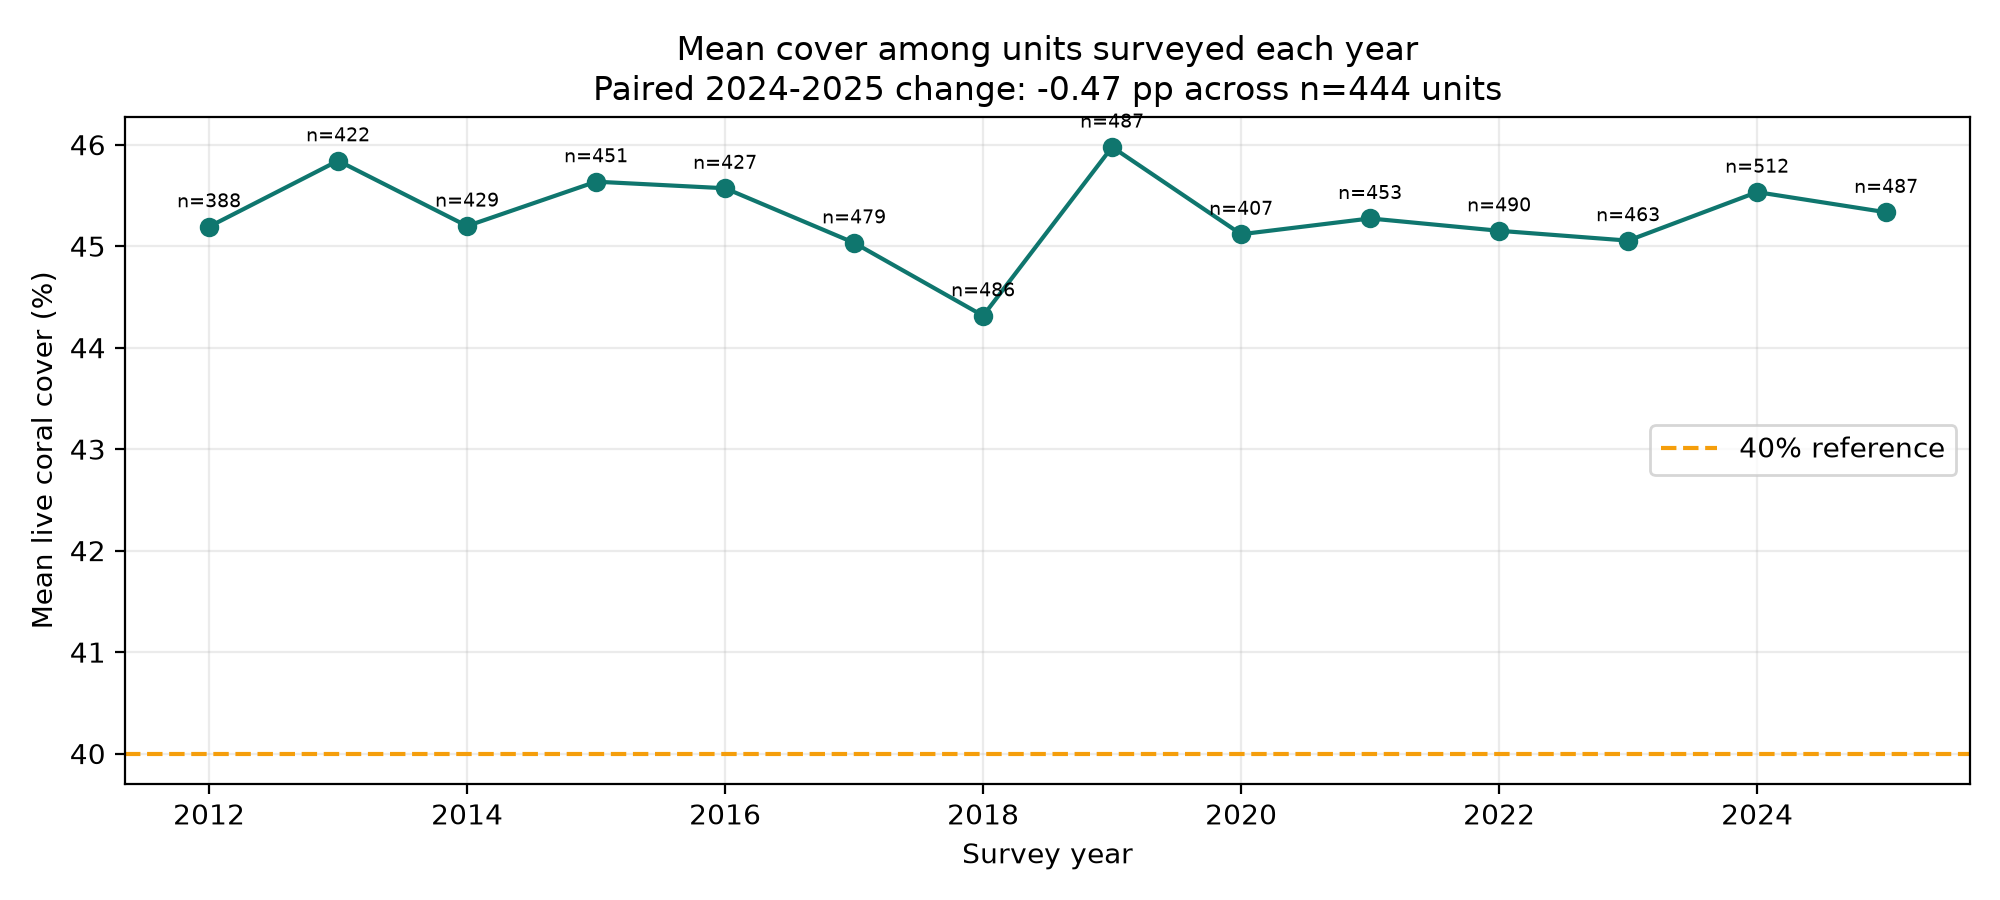
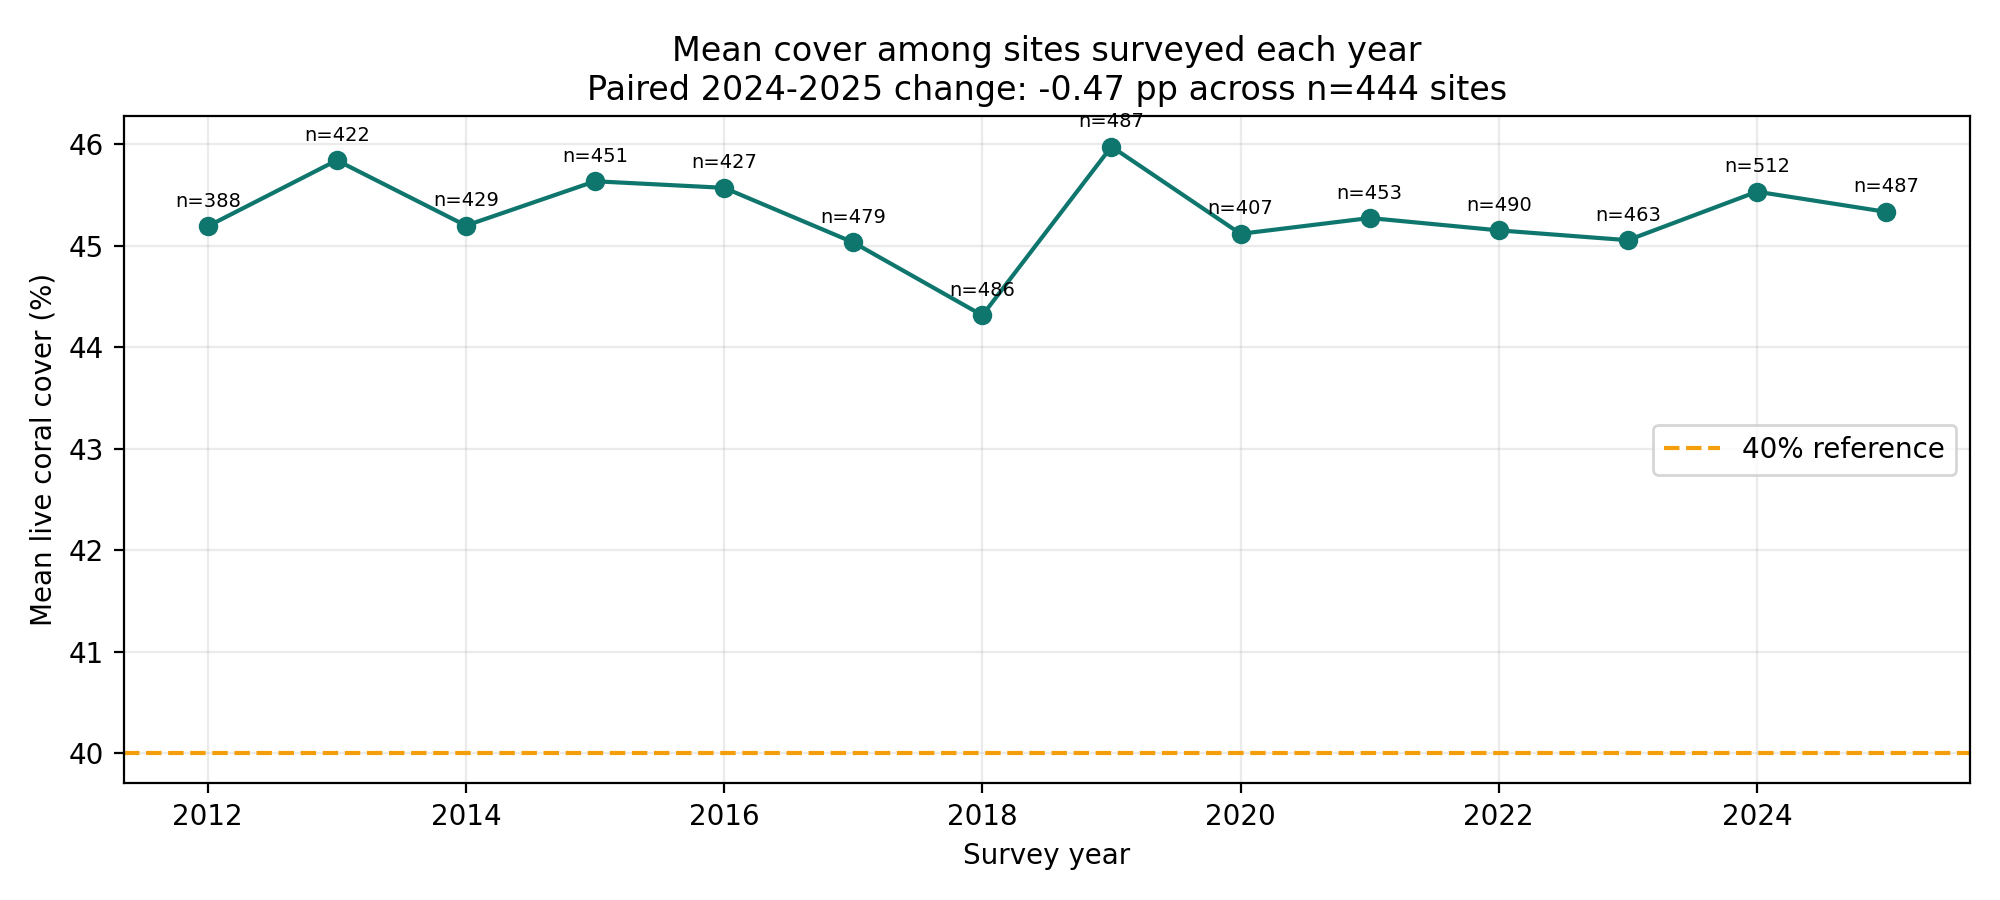
fix(figures): label coral trend by site and input availability by median imputation
- Coral cover trend title and paired-change label now say sites instead of units
- Input availability x-axis now reads "Available before median imputation (%)"
- Regenerate both figures in reports and dashboard; plotted values unchanged

diff --git a/scripts/export_all_graphs.py b/scripts/export_all_graphs.py
@@ -73,8 +73,8 @@ def plot_coral_trajectory():
     axis.axhline(40, color="#f59e0b", linestyle="--", label="40% reference")
     axis.set(
         xlabel="Survey year", ylabel="Mean live coral cover (%)",
-        title=("Mean cover among units surveyed each year\n"
-               f"Paired 2024-2025 change: {paired['change_pp']:+.2f} pp across n={paired['paired_units']} units"),
+        title=("Mean cover among sites surveyed each year\n"
+               f"Paired 2024-2025 change: {paired['change_pp']:+.2f} pp across n={paired['paired_units']} sites"),
     )
     axis.legend()
     axis.grid(alpha=0.25)
@@ -117,7 +117,7 @@ def plot_model_input_availability():
     fig, axis = plt.subplots(figsize=(10, 6))
     bars = axis.barh([item[0] for item in availability], [item[1] for item in availability], color="#0f766e")
     axis.bar_label(bars, fmt="%.1f%%", padding=3, fontsize=7)
-    axis.set(xlim=(0, 105), xlabel="Available before fold-local imputation (%)",
+    axis.set(xlim=(0, 105), xlabel="Available before median imputation (%)",
              title="Verified scored-model input availability")
     axis.grid(axis="x", alpha=0.25)
     save(fig, "12_dataset_completeness_matrix.png")
